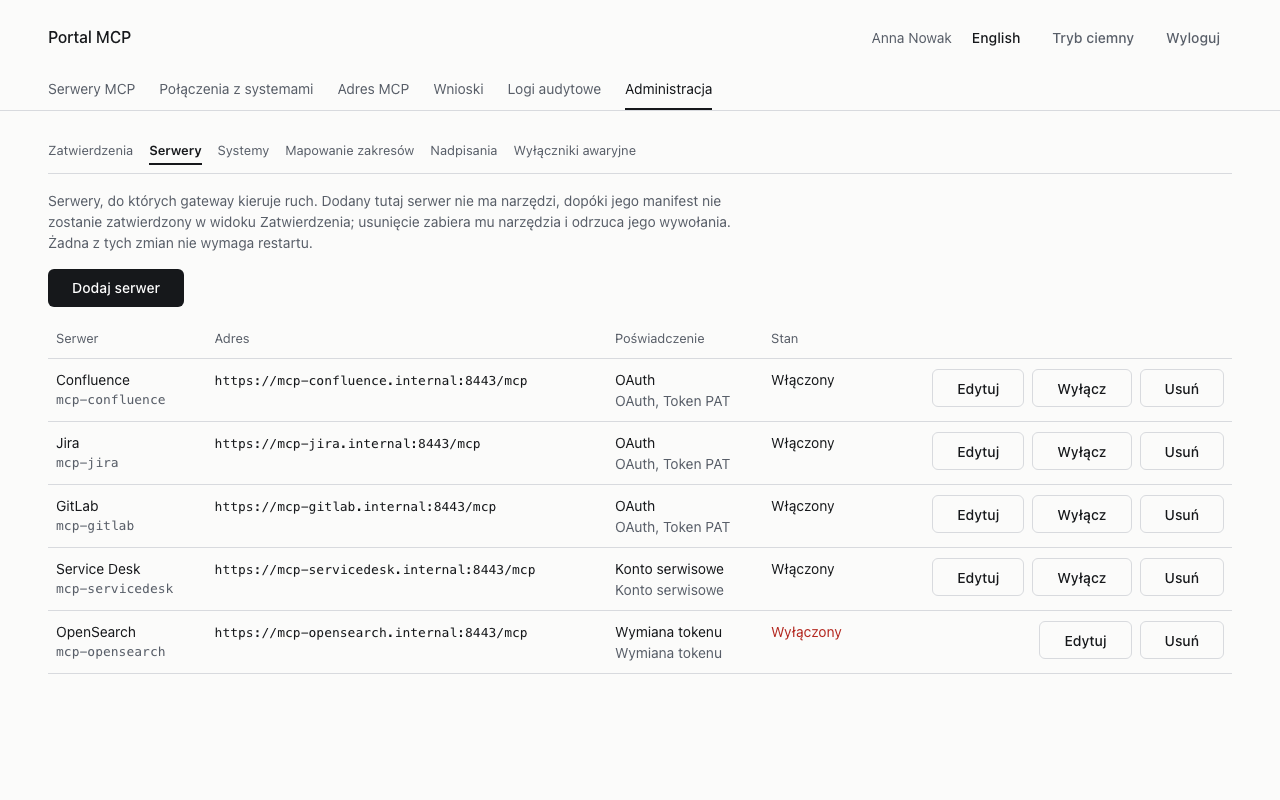
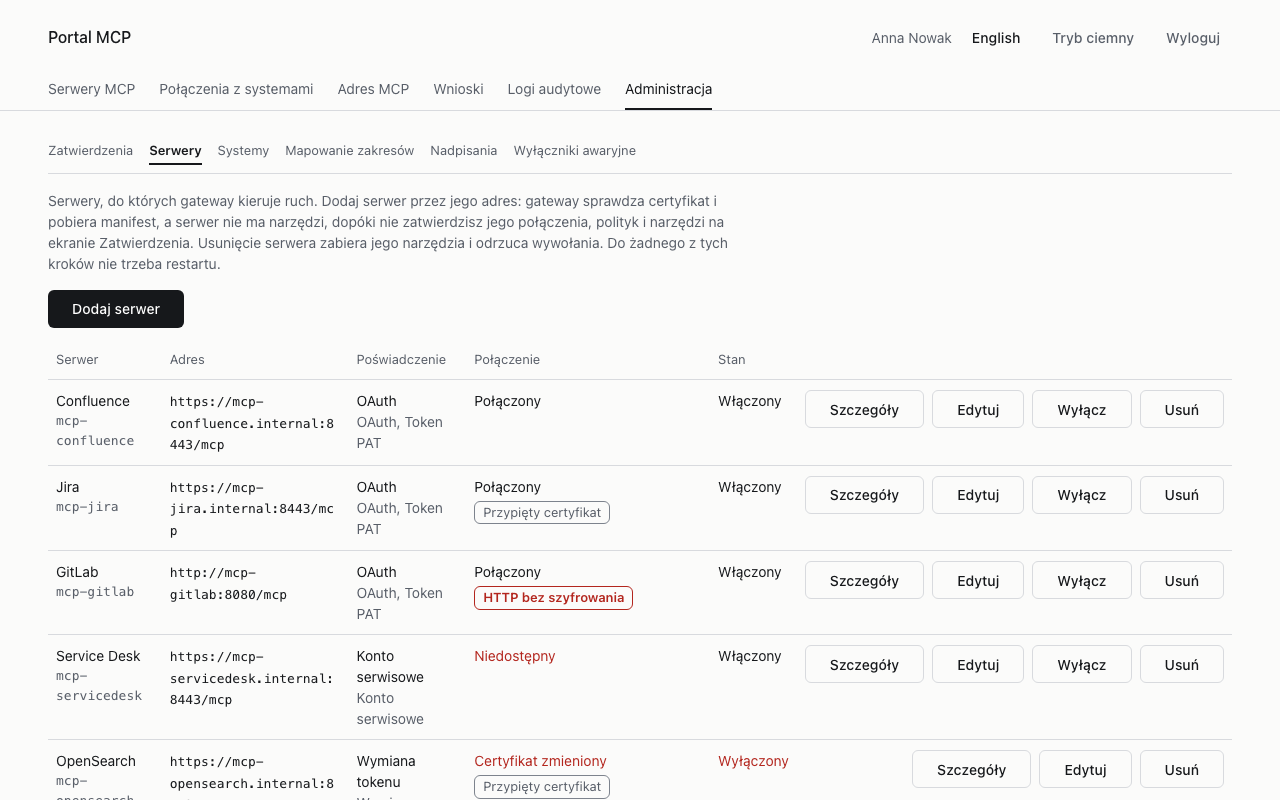
Document the connection screens: changelog and screenshots 26 to 28

diff --git a/README.md b/README.md
@@ -46,13 +46,14 @@ interface (same file names) in `docs/screenshots/pl/`. To take them again: `cd w
 | ![Audit logs with filters and an expanded row (request ID); results](docs/screenshots/en/16-audit-logs.png) Audit logs with filters and an expanded row (request ID); results: done, refused, waiting for confirmation. | ![Requests](docs/screenshots/en/17a-requests-list.png) Requests: the list with the statuses Pending, Approved, Rejected and Cancelled. |
 | ![The "Submit request" form with the entitlement catalog](docs/screenshots/en/17b-requests-form.png) The "Submit request" form with the entitlement catalog. | ![The `keycloak-groups` adapter](docs/screenshots/en/17c-requests-not-accepted.png) The `keycloak-groups` adapter: the message that the entitlement system does not accept requests from the portal. |
 | ![Administration](docs/screenshots/en/18a-risk-lowering-list.png) Administration: a tool marked "Risk lowering" with the definition differences. | ![The "Approve risk lowering?" dialog](docs/screenshots/en/18b-risk-lowering-dialog.png) The "Approve risk lowering?" dialog. |
-| ![The "Approve a definition reported by the server?" dialog (source](docs/screenshots/en/19-server-definition-dialog.png) The "Approve a definition reported by the server?" dialog (source: server, not CI). | ![Return after confirming identity](docs/screenshots/en/20-step-up-return.png) Return after confirming identity: "Identity confirmed. Lifting the switch..." |
+| ![The "Approve a definition reported by the server?" dialog (source](docs/screenshots/en/19-server-definition-dialog.png) The "Approve a definition reported by the server?" dialog (source: server, not the pulled manifest). | ![Return after confirming identity](docs/screenshots/en/20-step-up-return.png) Return after confirming identity: "Identity confirmed. Lifting the switch..." |
 
 | ![Servers of the gateway](docs/screenshots/en/21-servers.png) Servers of the gateway: add, edit, disable and remove. | ![A system whose address changed](docs/screenshots/en/22-system-address-changed.png) A system whose address changed: the form asks for the client secret again and warns that the user connections are deleted. |
 | ![Scope mapping with errors](docs/screenshots/en/23-scope-mapping-errors.png) Scope mapping: errors of the form and the reason given by the gateway. | ![Emergency overrides](docs/screenshots/en/24-overrides.png) Emergency overrides. |
-| ![Policies waiting for approval](docs/screenshots/en/25-policies-pending.png) Approvals: policies and resource types of a server next to the tool approvals. | |
+| ![Policies waiting for approval](docs/screenshots/en/25-policies-pending.png) Approvals: policies and resource types of a server next to the tool approvals. | ![Adding a server by its address](docs/screenshots/en/26-add-server.png) Adding a server by its address, with the plain HTTP option and its warning. |
+| ![Approval of a connection](docs/screenshots/en/27-connection-approval.png) Approvals: the connection of a server (fingerprint, names, validity) is approved before its policies and tools. | ![Details of a server on plain HTTP](docs/screenshots/en/28-server-details-plain.png) Details of a server on plain HTTP: warning, connection, last check and Refresh. |
 
-Pictures 21 to 25 show the 2.0.0 administration screens. Pictures 10 to 20 correspond to items 1 to 11 of the list in `mcp-docs/docs/screenshots-needed.md` (10 = item 1, 11 = item 2,
+Pictures 21 to 28 show the 2.0.0 administration screens. Pictures 10 to 20 correspond to items 1 to 11 of the list in `mcp-docs/docs/screenshots-needed.md` (10 = item 1, 11 = item 2,
 12a-12c = item 3, 13 = item 4, 14a-14b = item 5, 15 = item 6, 16 = item 7, 17a-17c = item 8, 18a-18b = item 9, 19 = item 10,
 20 = item 11). Screenshots of client applications and the architecture drawing (items 12 to 15) are not taken from the portal.
 

diff --git a/CHANGELOG.md b/CHANGELOG.md
@@ -22,6 +22,12 @@ Dynamic servers: no list of systems, servers or resource types is left in the po
   request dialog takes the systems from the catalog.
 - Mock build and tests: the MSW mock keeps servers, systems, mapping and overrides as data (`?mockPolicies=in` puts policies up
   for approval); new unit and end-to-end tests for every screen; screenshots 21 to 25.
+- Servers are added by address (CC-249): the gateway probes the certificate and pulls the manifest, and the administrator approves
+  the connection (`ca`, `pinned` or `plain`) with a fresh MFA, then the policies and tools. BFF: `createAdminServer` takes
+  `ServerAddRequest`, new `approveAdminServerConnection` and `refreshAdminServer` (`429 refresh_too_frequent`), `manifestReason`
+  passed on in `server_rejected`, `409 connection_changed` and `no_pending_connection`, pending source `manifest` instead of `ci`.
+  Web: add form with "Allow plain HTTP", status and badges per server, connection approval card, server details with Refresh;
+  screenshots 26 to 28.
 - Review fixes: replacing an override needs a fresh MFA (creating one does not); a malformed path identifier or `If-Match` is
   `400 invalid_request`, never 404; request bodies over 64 KB on `/api/v1/admin/**` are refused before they are read and the
   admin check comes first; system display names (administration pages only); the scope mapping page lists the approved resource
